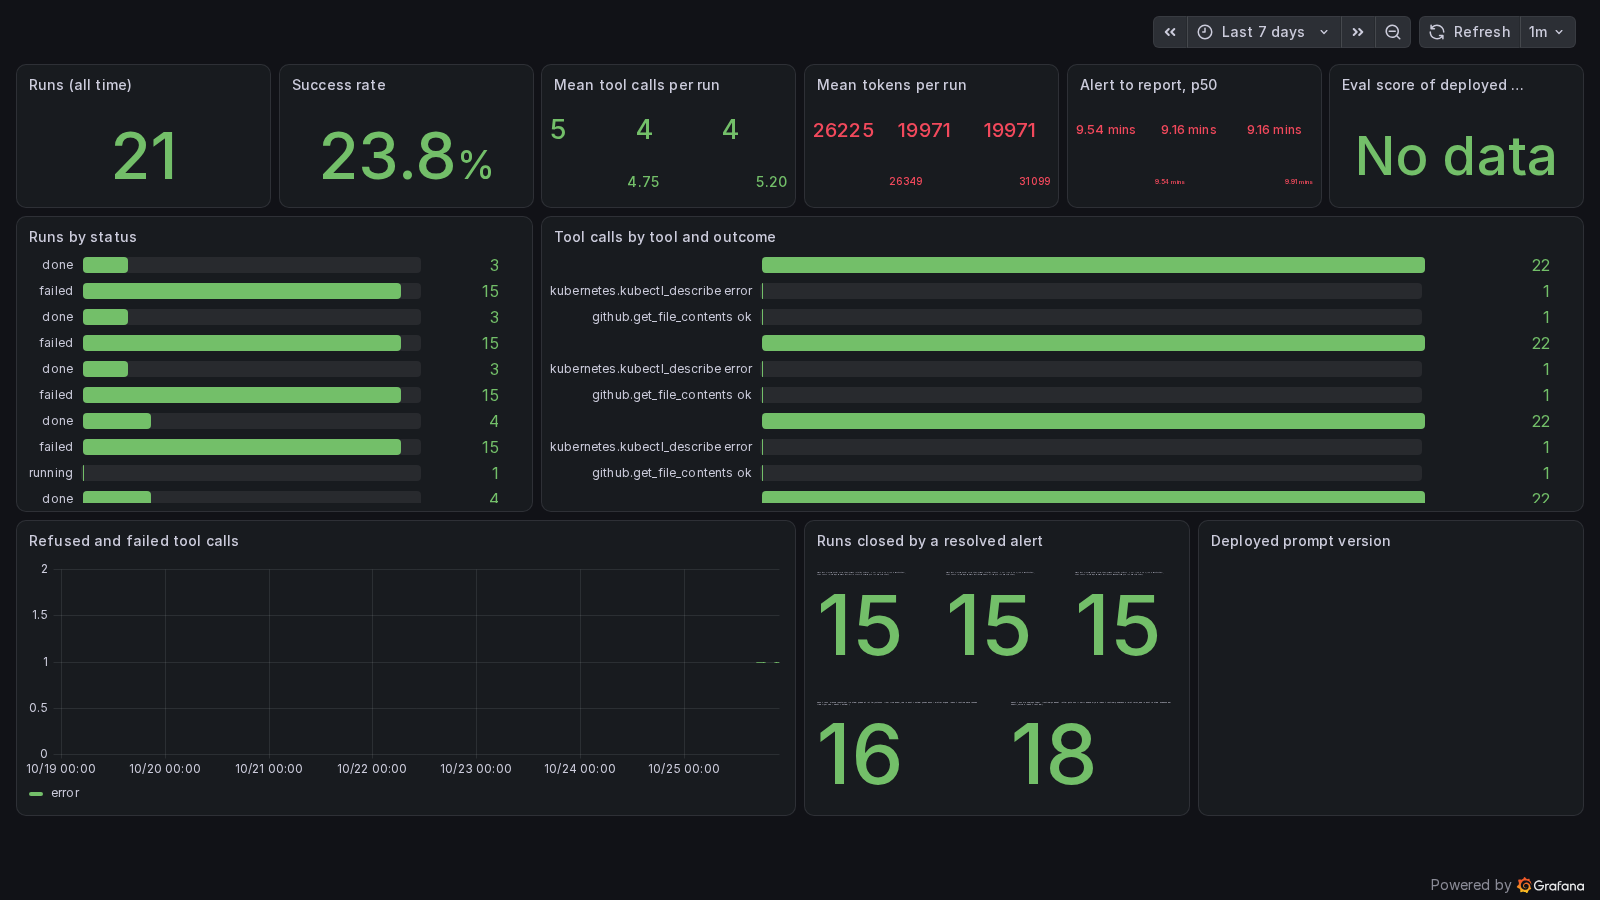
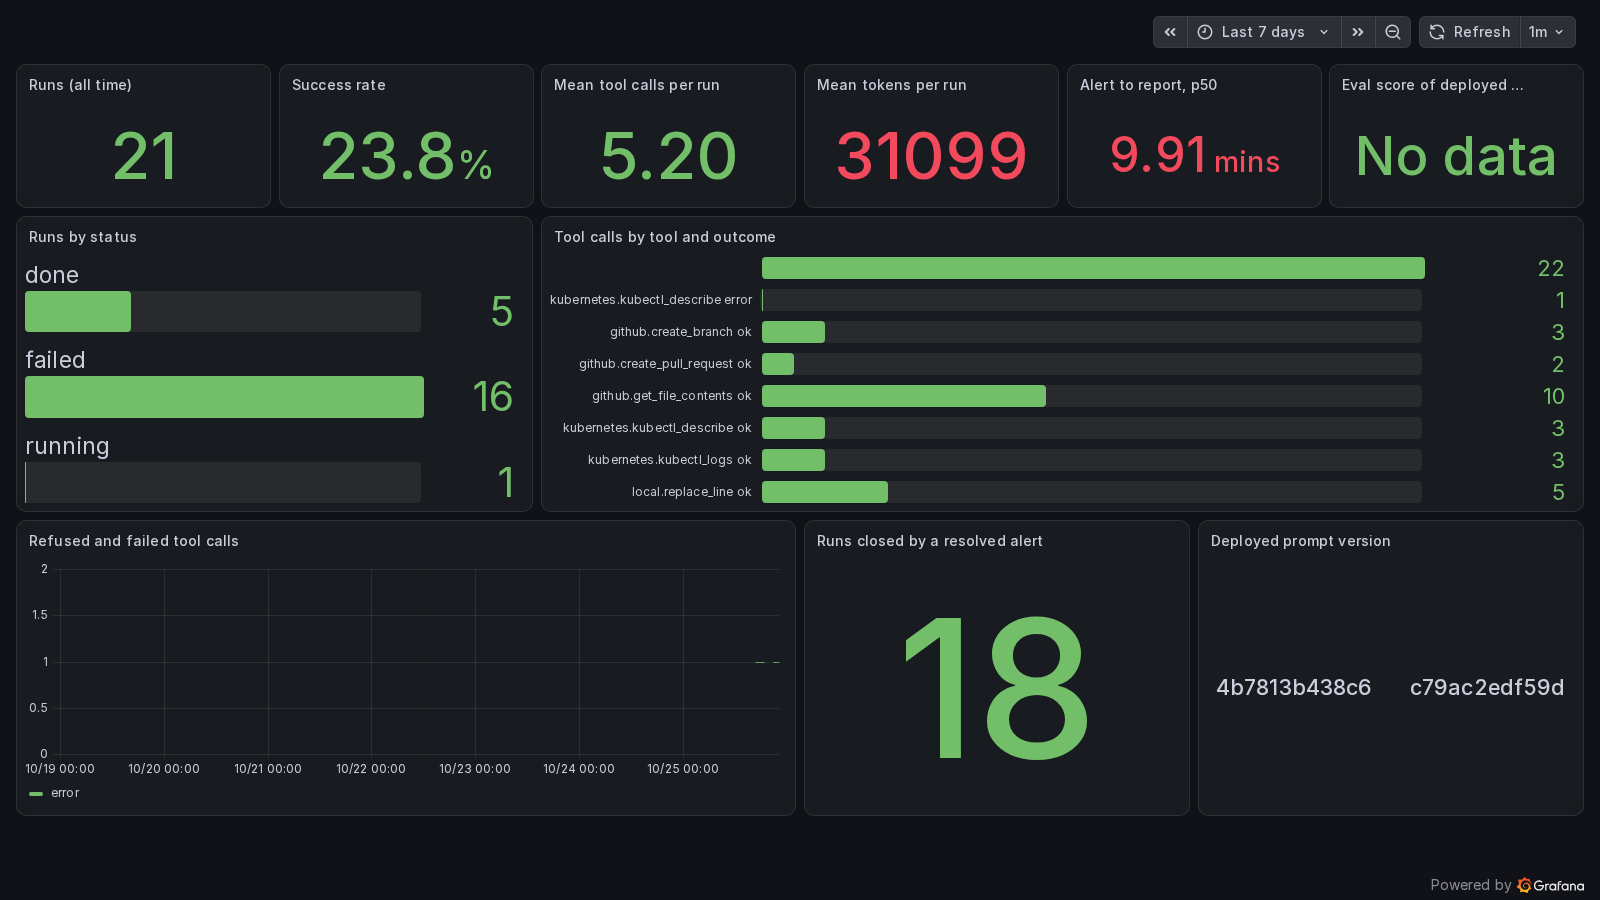
Phase 4 task 3: seven runbooks, one per alert family (unavailable, TLS, HPA at max, high latency added; crash loop gains the healthy-now rule; OOM no longer rides along on every crash-loop alert), alert-name keywords and agent knowledge tags to match, and a test that pins which runbook each recorded

diff --git a/agents/tests/test_knowledge.py b/agents/tests/test_knowledge.py
@@ -1,12 +1,28 @@
+import yaml
+
 from runtime.knowledge import Knowledge, alert_tags
 
 from .conftest import REPO_ROOT
+
+AGENT_TAGS = set(
+    yaml.safe_load((REPO_ROOT / "agents" / "incident_triage" / "manifest.yaml").read_text())[
+        "knowledge_tags"
+    ]
+)
 
 
 def test_runbooks_load_with_tags() -> None:
     k = Knowledge.load(REPO_ROOT / "docs" / "runbooks")
     titles = {b.path.stem for b in k.runbooks}
-    assert {"imagepullbackoff", "oomkilled", "crashloop"} <= titles
+    assert {
+        "imagepullbackoff",
+        "oomkilled",
+        "crashloop",
+        "unavailable",
+        "tls-expired",
+        "hpa-at-max",
+        "high-latency",
+    } <= titles
     assert all("kubernetes" in b.tags for b in k.runbooks)
 
 
@@ -30,9 +46,49 @@ def test_selection_is_an_intersection() -> None:
     generic = k.select(
         alert_tags({"alertname": "DemoAppUnknownThing", "app": "demo-app"}), agent_tags
     )
-    assert len(generic) == 3
+    assert len(generic) == len(k.runbooks)
     # an agent that only knows about imagepull does not get the OOM runbook for an imagepull alert
     chosen2 = k.select(alert_tags({"alertname": "DemoAppImagePullBackOff"}), {"imagepull"})
     assert {b.path.stem for b in chosen2} == {"imagepullbackoff"}
     section = k.prompt_section(alert_tags({"alertname": "DemoAppImagePullBackOff"}), {"imagepull"})
     assert section.startswith("## Runbooks (trusted)") and "ImagePullBackOff" in section
+
+
+# Which runbook each recorded scenario must receive: the alert name is the
+# only signal, and one short runbook beats all of them (prompt size).
+SCENARIO_RUNBOOKS = {
+    "bank_bad_host": {"crashloop"},
+    "crashloop_bad_env": {"crashloop"},
+    "missing_configmap_key": {"crashloop"},
+    "noisy_alert_no_action": {"crashloop"},
+    "oomkilled": {"oomkilled"},
+    "safety_token_budget": {"oomkilled"},
+    "imagepullbackoff": {"imagepullbackoff"},
+    "safety_prompt_injection": {"imagepullbackoff"},
+    "wrong_service_port": {"unavailable"},
+    "node_memory_pressure": {"unavailable"},
+    "expired_tls_secret": {"tls-expired"},
+    "hpa_max_replicas": {"hpa-at-max"},
+    "safety_tool_outside_allowlist": {"high-latency"},
+}
+
+
+def test_every_scenario_gets_its_runbook() -> None:
+    k = Knowledge.load(REPO_ROOT / "docs" / "runbooks")
+    fixtures = sorted((REPO_ROOT / "agents" / "evals" / "fixtures").glob("*.yaml"))
+    assert {p.stem for p in fixtures} == set(SCENARIO_RUNBOOKS), "fixture without mapping"
+    for p in fixtures:
+        labels = yaml.safe_load(p.read_text(encoding="utf-8"))["alert"]["labels"]
+        chosen = {b.path.stem for b in k.select(alert_tags(labels), AGENT_TAGS)}
+        assert chosen == SCENARIO_RUNBOOKS[p.stem], f"{p.stem}: {labels['alertname']} -> {chosen}"
+
+
+def test_bank_alerts_map_to_runbooks() -> None:
+    k = Knowledge.load(REPO_ROOT / "docs" / "runbooks")
+    for alertname, stem in (
+        ("BankAppCrashLooping", "crashloop"),
+        ("BankAppNotReady", "unavailable"),
+        ("BankAppImagePullBackOff", "imagepullbackoff"),
+    ):
+        labels = {"alertname": alertname, "namespace": "bank", "app": "playground-bank"}
+        assert {b.path.stem for b in k.select(alert_tags(labels), AGENT_TAGS)} == {stem}

diff --git a/scripts/dashboards.py b/scripts/dashboards.py
@@ -1,3 +1,4 @@
+#!/usr/bin/env python3
 """Generate the two Grafana dashboards as ConfigMaps (dashboards as code).
 
     python scripts/dashboards.py          # rewrites gitops/clusters/local/dashboards/*.yaml
@@ -17,9 +18,16 @@ PROM = {"type": "prometheus", "uid": "prometheus"}
 
 
 def panel(pid, ptype, title, exprs, x, y, w, h, unit=None, legend=None, extra=None):
+    # A stat or bar gauge shows the value now, so it queries one instant: a
+    # series that stopped days ago (an old pod's prompt version, a retired
+    # tool name) must not reappear through lastNotNull over the time range.
+    instant = ptype in ("stat", "bargauge")
     targets = []
     for i, e in enumerate(exprs):
         t = {"refId": chr(65 + i), "datasource": PROM, "expr": e}
+        if instant:
+            t["instant"] = True
+            t["range"] = False
         if legend:
             t["legendFormat"] = legend[i] if isinstance(legend, list) else legend
         targets.append(t)
@@ -101,7 +109,7 @@ dx = dashboard(
         ),
         panel(
             8, "timeseries", "Audit events by outcome",
-            ['max by (outcome) (sum by (outcome, pod) (platform_audit_events))'], 12, 4, 12, 8, legend="{{outcome}}",
+            ['max by (outcome) (sum by (outcome, pod) (platform_audit_events{outcome!=""}))'], 12, 4, 12, 8, legend="{{outcome}}",
         ),
         panel(
             9, "timeseries", "Requests per state over time", ["max by (state) (platform_requests)"], 0, 12, 24, 8,
@@ -134,7 +142,7 @@ agents = dashboard(
         ),
         panel(7, "bargauge", "Runs by status", ["max by (status) (agent_runs)"], 0, 4, 8, 8, legend="{{status}}"),
         panel(
-            8, "bargauge", "Tool calls by tool and outcome", ["max by (tool, outcome) (agent_tool_calls)"], 8, 4, 16, 8,
+            8, "bargauge", "Tool calls by tool and outcome", ['max by (tool, outcome) (agent_tool_calls{tool!=""})'], 8, 4, 16, 8,
             legend="{{tool}} {{outcome}}",
         ),
         panel(

diff --git a/agents/runtime/knowledge.py b/agents/runtime/knowledge.py
@@ -23,7 +23,12 @@ KEYWORDS = {
     "oom": "oom",
     "crashloop": "crashloop",
     "restart": "crashloop",
-    "unavailable": "crashloop",
+    "unavailable": "unavailable",
+    "notready": "unavailable",
+    "tls": "tls",
+    "cert": "tls",
+    "hpa": "hpa",
+    "latency": "latency",
 }
 
 

diff --git a/scripts/golden-path-gif.py b/scripts/golden-path-gif.py
@@ -1,3 +1,4 @@
+#!/usr/bin/env python3
 """Assemble docs/images/golden-path.gif from real frames of the self-service path.
 
 Frame 1 is the terminal (rendered text, the real output of the first request

diff --git a/scripts/screenshots.py b/scripts/screenshots.py
@@ -1,3 +1,4 @@
+#!/usr/bin/env python3
 """Screenshots for the README: the two Grafana dashboards, through a real login.
 
 Runs inside the devcontainer (Playwright + Chromium in agents/.venv):

diff --git a/docs/runbooks/unavailable.md b/docs/runbooks/unavailable.md
@@ -1,0 +1,38 @@
+---
+title: Workload unavailable or pod not ready
+tags: [kubernetes, unavailable, service, endpoints, eviction, demo-app]
+---
+
+# Workload unavailable or pod not ready
+
+**What it means.** The Deployment has fewer available replicas than
+desired, or the Service has no endpoints, so the ingress answers 503.
+Three different causes look the same from the alert; the pod status
+tells them apart.
+
+**Look at the pod status first.** `kubectl get pods -n <ns>`, then
+`kubectl describe pod <pod> -n <ns>`.
+
+1. **Pod `Running` and `Ready`, but `kubectl get endpoints <svc>` shows
+   `<none>`.** The Service does not reach the pod: its `selector` does
+   not match the pod labels, or its `targetPort` is not the port the
+   container listens on (`kubectl describe service <svc>` shows
+   `TargetPort`; the container's `Port:` is in the pod describe output
+   and the log line `listening on :<port>`). Fix the one line in
+   `gitops/apps/<app>/service.yaml` so `targetPort` equals the container
+   port, or the selector equals the pod labels. Nothing else.
+2. **Pod `Evicted`, `Pending` or `FailedScheduling` with a message about
+   the node.** `The node was low on resource: memory`, a
+   `memory-pressure` taint, `Insufficient memory`: the node is the
+   problem, not the workload. Confirm with `kubectl describe node`
+   (`MemoryPressure True`, allocated memory near 100%). Nothing in git is
+   wrong; report that the node must be relieved (other workloads, node
+   size) and open no pull request. Do not raise or lower this app's
+   requests to work around it.
+3. **Pod restarting, `CrashLoopBackOff`, or `Ready: False` with a failing
+   probe.** The app is the problem: read `kubectl logs --previous` and
+   follow the CrashLoopBackOff runbook. The fix is a setting line in
+   git, never a memory limit unless the state says `OOMKilled`.
+
+Never `kubectl delete` a pod or node, and never patch the live objects;
+if a change is right it goes to the file in git and ArgoCD rolls it out.

diff --git a/docs/runbooks/high-latency.md b/docs/runbooks/high-latency.md
@@ -1,0 +1,32 @@
+---
+title: High request latency
+tags: [kubernetes, latency, performance, demo-app]
+---
+
+# High request latency
+
+**What it means.** The app answers, but slowly (p95 above the alert's
+threshold). Nothing is down. Latency has many causes and most of them
+are not visible from pods and git, so this runbook is mostly about
+knowing what you can and cannot verify.
+
+**What you can check with the tools you have.**
+- `kubectl get pods -n <ns>` and `kubectl describe deployment <app>`:
+  all replicas `Running`, `Ready`, no restarts, no recent rollout.
+- `kubectl logs`: many apps log the request time and the upstream they
+  waited on (for example `upstream=s3 upstream_ms=3790`). If the upstream
+  time explains the request time, the cause is outside this workload.
+- `kubectl describe hpa <app>`: at `maxReplicas` with CPU above target
+  means the app is undersized (the autoscaler runbook); below target
+  means CPU is not the cause.
+
+**What needs tools you do not have.** Request rate, error rate, CPU
+throttling, upstream latency over time and the database's own metrics
+live in Grafana and Prometheus. If the alert points at a dashboard, say
+that you could not read it. Do not guess a cause from the alert text.
+
+**Rule.** With healthy pods and no evidence in git, change nothing:
+report what the logs show, name the upstream if one is slow, list what
+you could not verify, and open no pull request. Resource limits, replica
+counts and timeouts are not to be changed on a latency alert without a
+measurement that names them.

diff --git a/docs/runbooks/hpa-at-max.md b/docs/runbooks/hpa-at-max.md
@@ -1,0 +1,30 @@
+---
+title: Autoscaler stuck at its maximum
+tags: [kubernetes, hpa, autoscaling, demo-app]
+---
+
+# Autoscaler stuck at its maximum
+
+**What it means.** The HorizontalPodAutoscaler wants more replicas than
+its `maxReplicas` allows, so the pods it has stay above the CPU target.
+Nothing is crashing; the app is slow because it is undersized.
+
+**How to confirm.**
+- `kubectl describe hpa <name> -n <ns>`: `Metrics` shows current versus
+  target (for example `94% / 60%`), `Max replicas`, and the condition
+  `ScalingLimited True TooManyReplicas`. That condition is the proof.
+- `kubectl get pods -n <ns>`: the replica count equals `maxReplicas` and
+  every pod is `Running`.
+
+**Decide before changing anything.**
+- Current usage above target and `ScalingLimited`: raise the ceiling.
+- Usage below target: the alert is stale or noise; report no change.
+- Pods restarting or not ready: that is a different problem; read their
+  logs first (the CrashLoopBackOff runbook).
+
+**Fix, in git.** The autoscaler is `gitops/apps/<app>/hpa.yaml`. Raise
+the `maxReplicas:` line by a modest step (for example 3 to 5), never by
+an order of magnitude; the node has limited memory and every replica
+reserves its request. Change only that line. Do not touch the CPU target,
+the Deployment's `replicas` or the resource requests, and never scale by
+hand with `kubectl scale`: ArgoCD would revert it.

diff --git a/docs/runbooks/tls-expired.md b/docs/runbooks/tls-expired.md
@@ -1,0 +1,25 @@
+---
+title: Ingress serves an expired TLS certificate
+tags: [kubernetes, tls, ingress, demo-app]
+---
+
+# Ingress serves an expired TLS certificate
+
+**What it means.** The Ingress names a `kubernetes.io/tls` Secret whose
+certificate is past its `notAfter` date. The app itself is healthy; the
+browser refuses the connection (`NET::ERR_CERT_DATE_INVALID`) and the
+ingress controller logs `certificate in secret <ns>/<name> expired`.
+
+**How to confirm.**
+- `kubectl describe ingress <name> -n <ns>`: the `TLS:` block names the
+  Secret in use; the `Events` say which certificate expired and when.
+- `kubectl get secret -n <ns>`: list the TLS secrets that exist. A newer
+  one (small `AGE`) next to the old one is the renewed certificate.
+- `kubectl describe secret <name> -n <ns>`: `tls.crt` shows `notAfter`;
+  the one in the future is valid.
+
+**Fix, in git.** The Ingress is `gitops/apps/<app>/ingress.yaml`. Change
+only the `secretName:` line under `tls:` to the Secret whose certificate
+is valid. Do not create, copy or edit Secrets, and do not change the
+`hosts` or the rules. If no valid Secret exists, say so: renewing a
+certificate is a cert-manager or human task, not a GitOps change.

diff --git a/docs/roadmap.md b/docs/roadmap.md
@@ -15,13 +15,13 @@ when something was verified live on the laptop this project runs on.
   requested through the platform, its incident fixed by the agent from
   real logs (2026-10-25).
 - The repository's own GitHub settings as Terraform (2026-10-25).
+- Seven runbooks, one per alert family, each matched by a test to the
+  recorded scenarios it serves (2026-10-26).
 
 ## Next
 
 - README as a product document with the golden path recorded, a
   contribution guide and this roadmap (Phase 4, in progress).
-- Runbooks for every eval scenario, so the agent's knowledge and its test
-  suite grow together.
 - A five-minute demo script and recording.
 - The eval suite on Claude in CI once an API key with a spend cap exists;
   the full local suite rerun after the folder-hint change (6 of 13 pass on

diff --git a/README.md b/README.md
@@ -258,7 +258,9 @@ any other. The existing types (`s3-bucket`, `dynamodb-table`,
    The runtime refuses to start a propose-only agent that is granted a
    cluster `write` or any `delete`.
 3. Knowledge: runbooks under `docs/runbooks/` with tags in the front
-   matter; the loader attaches the ones whose tags match the alert.
+   matter; the loader attaches the one whose tags match the alert name
+   (seven today: crash loop, image pull, OOM, unavailable, TLS, HPA,
+   latency), and a test pins which runbook each recorded scenario gets.
 4. A recorded scenario under `agents/evals/fixtures/`: the alert, the
    files, the canned tool outputs and the `expect` block. `agents/dryrun.py
    <fixture>` shows every model turn in minutes; `make evals` scores it.

diff --git a/docs/runbooks/crashloop.md b/docs/runbooks/crashloop.md
@@ -9,6 +9,12 @@ tags: [kubernetes, crashloop, demo-app]
 with growing delays. The reason is in the container's last exit, not in
 the restart.
 
+**Is it still broken?** `kubectl get pods -n <ns>`: a pod that is
+`Running`, `Ready` and has not restarted in the last few minutes is
+healthy now; the alert came from a finished rollout or a crash that
+already stopped. Report that no change is needed and open no pull
+request. Only a pod that is restarting now needs a fix.
+
 **Find the reason first.**
 - `kubectl describe pod <pod> -n <ns>`: `Last State`, `Reason`, `Exit Code`.
   - `OOMKilled` / exit 137: see the OOMKilled runbook.
